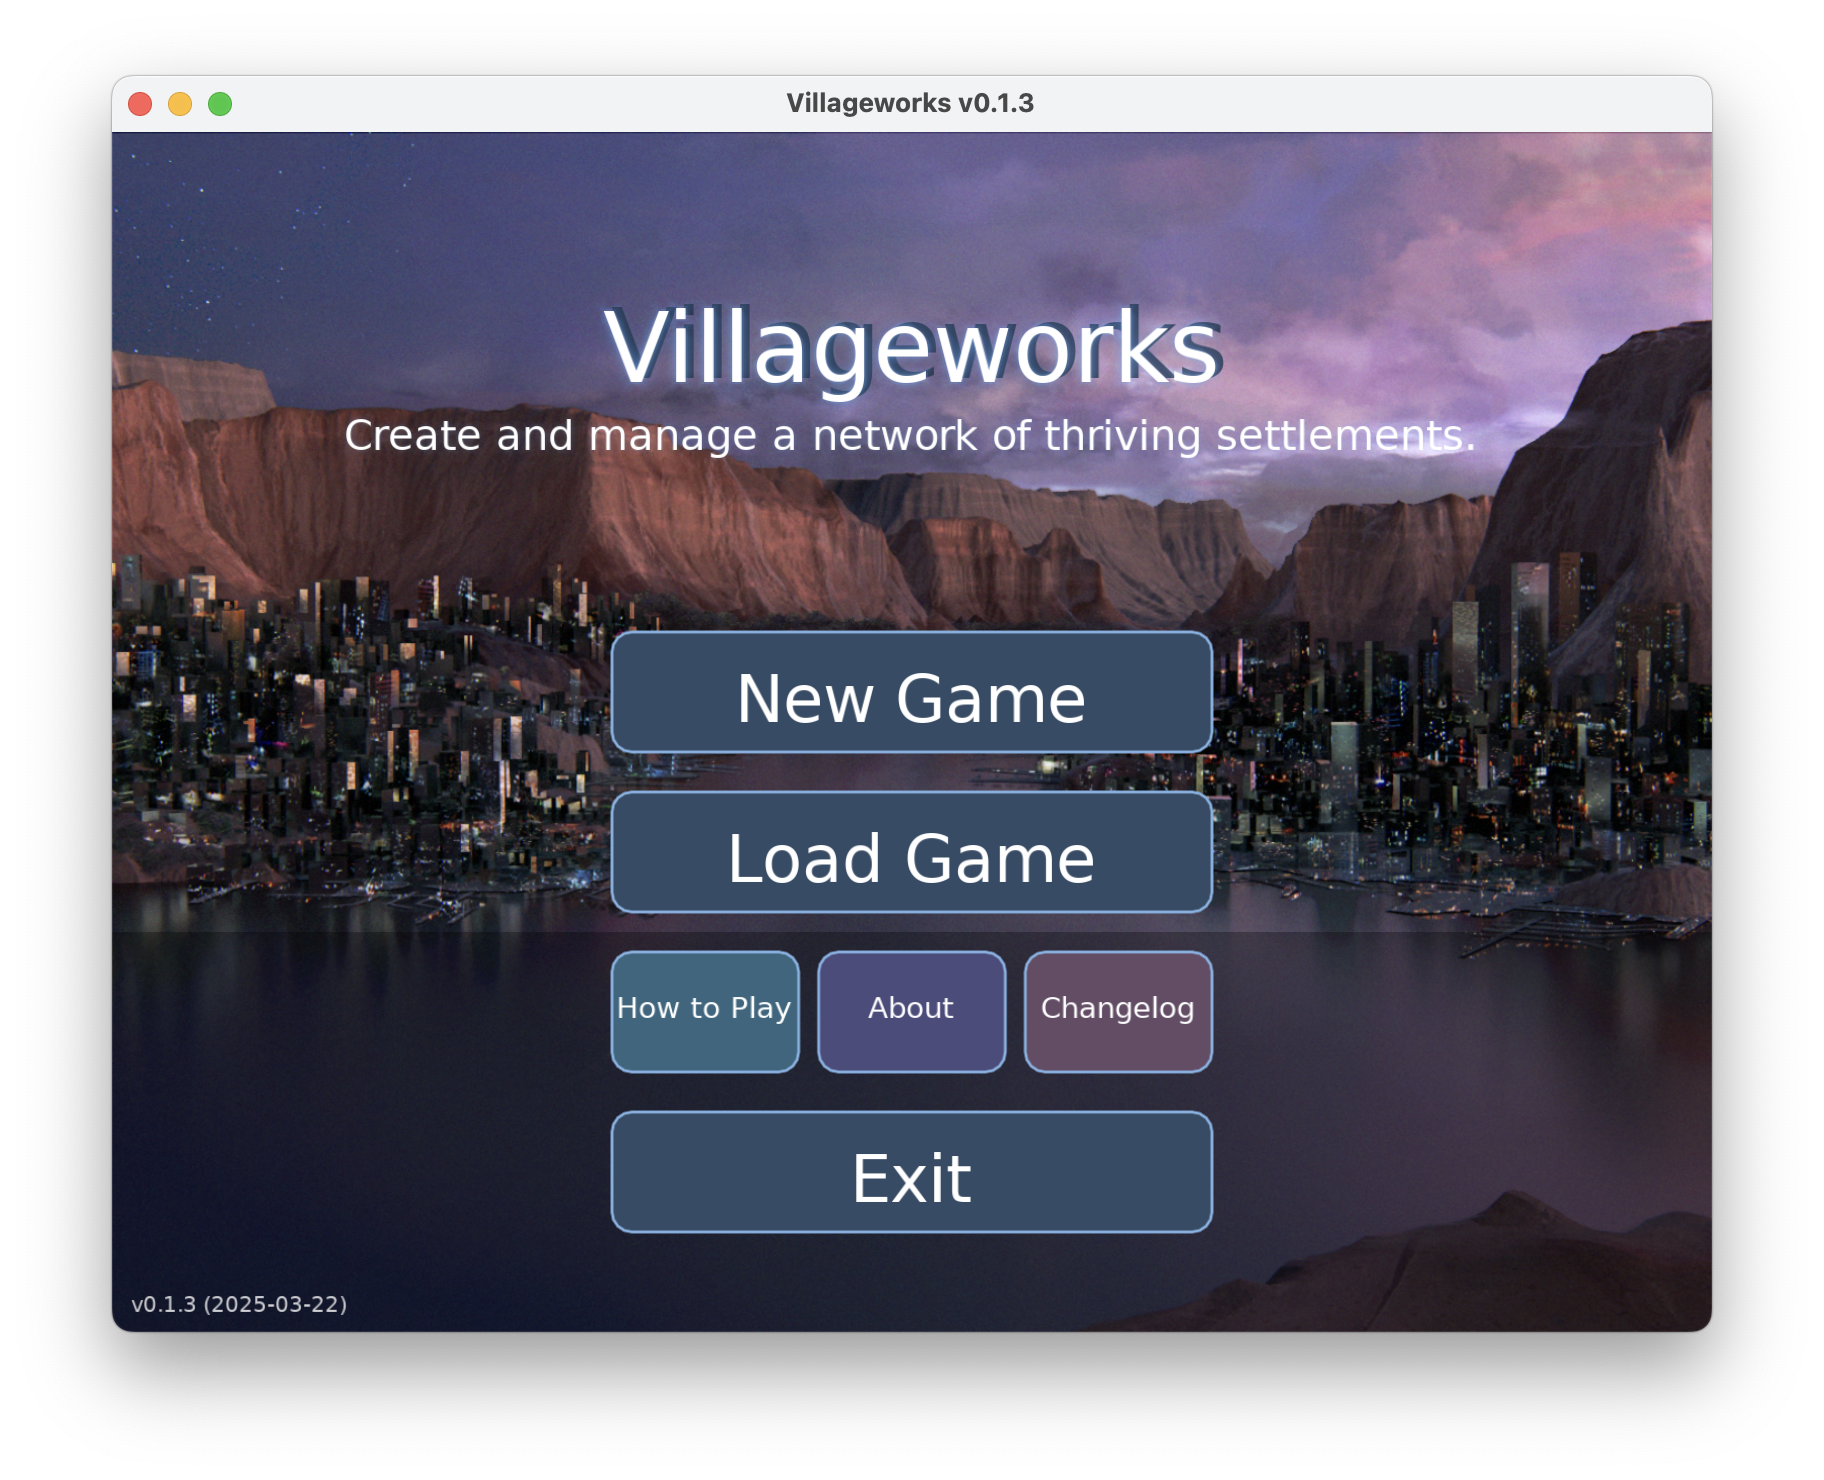
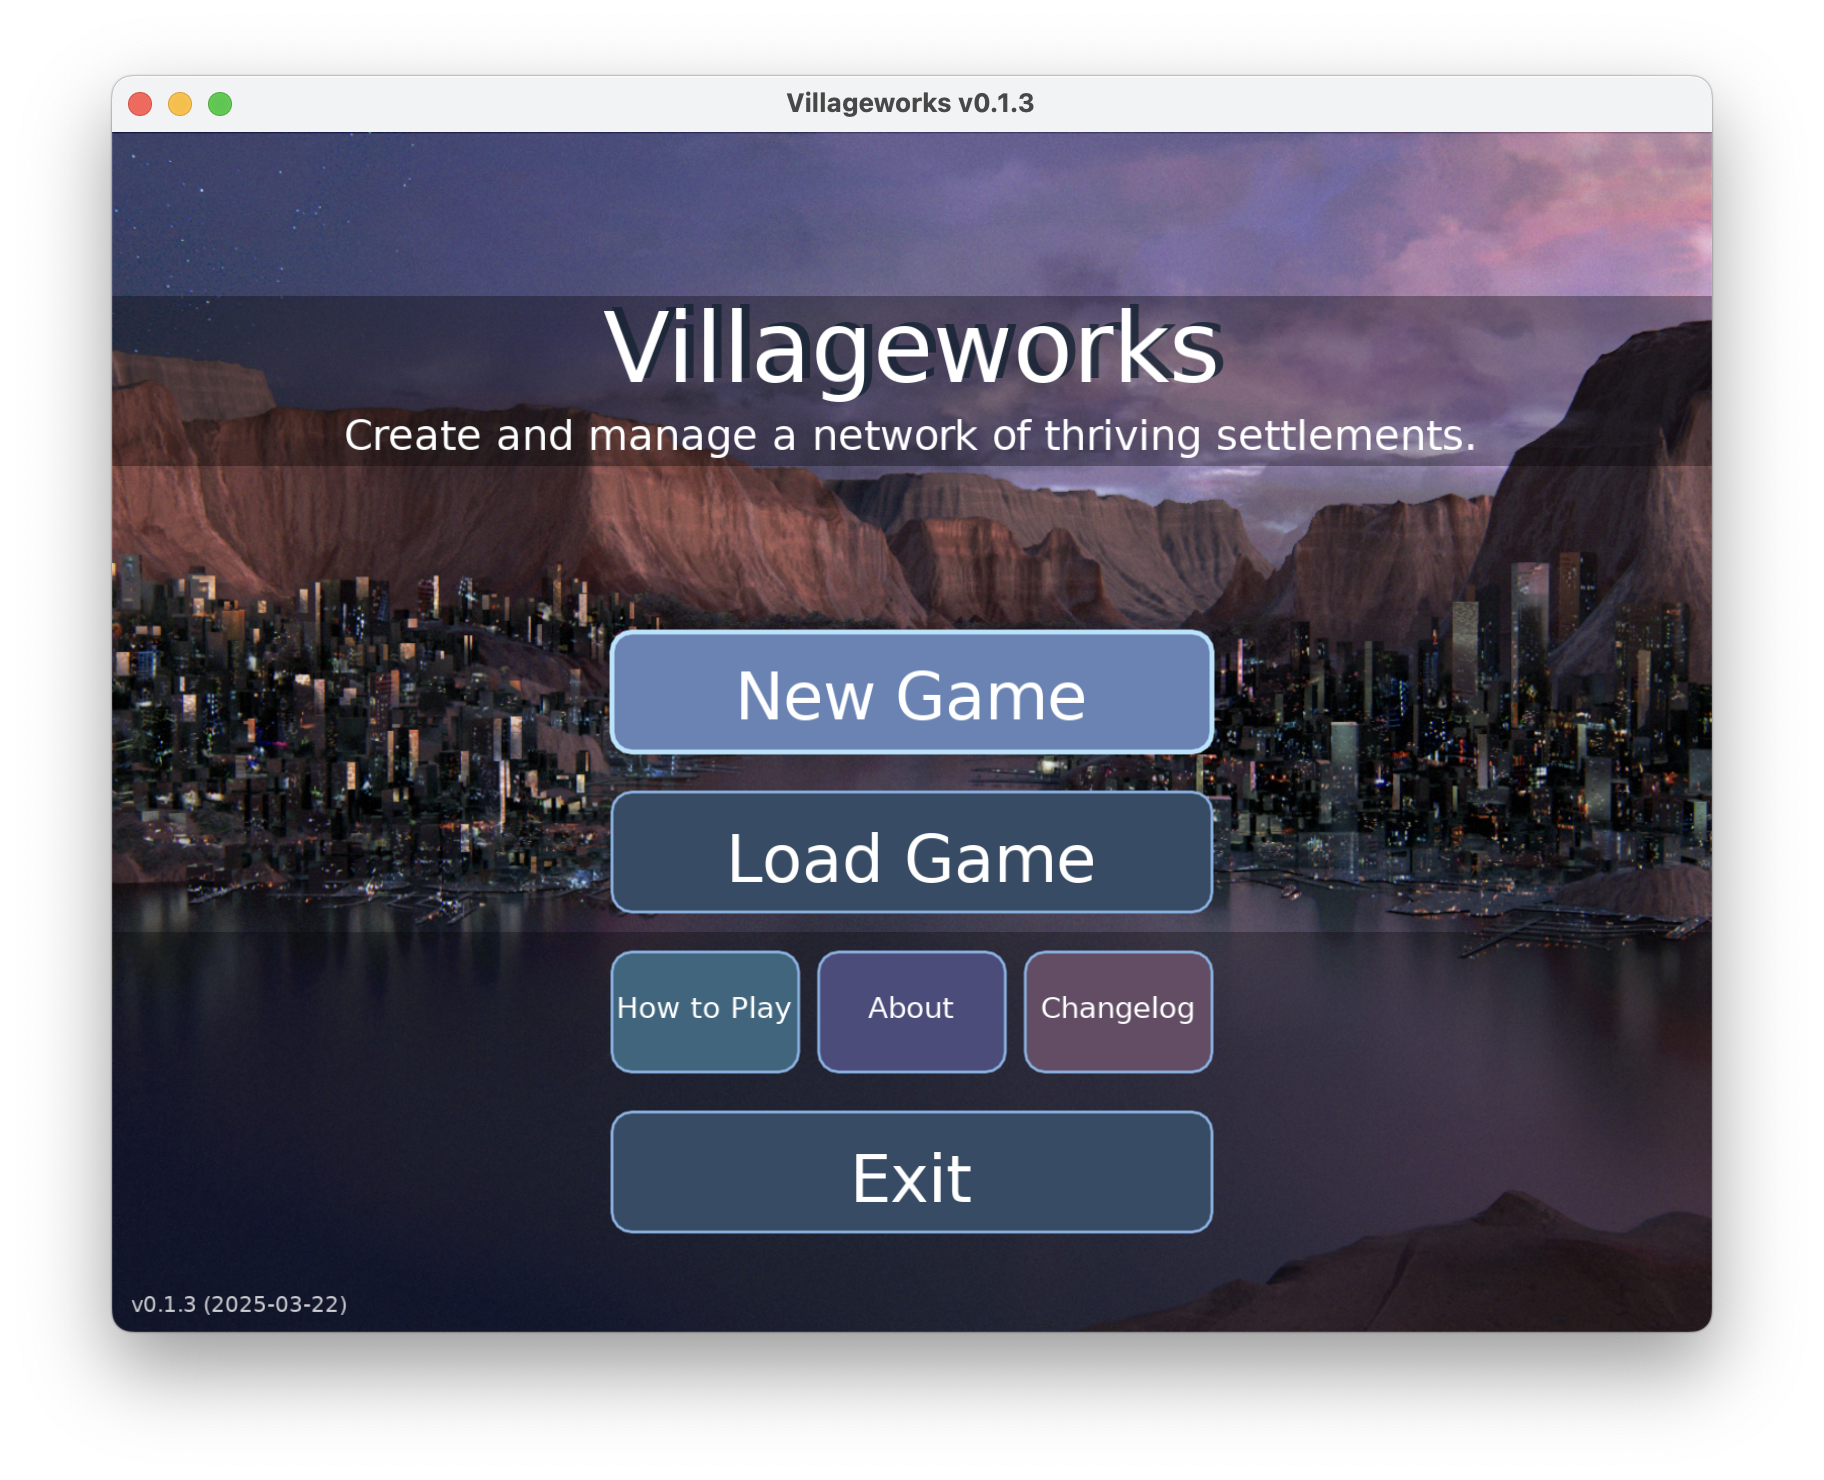
info

Changed region(s): [[0.0625, 0.1865, 0.9375, 0.3419], [0.3125, 0.4041, 0.6875, 0.5284], [0.9062, 0.2797, 0.9375, 0.3419]]

diff --git a/docs/CHANGELOG.md b/docs/CHANGELOG.md
@@ -14,6 +14,8 @@ The format is based on [Keep a Changelog](https://keepachangelog.com/en/1.0.0/),
 
 ### Changed
 
+- Update screenshots.
+- Main menu title backdrop.
 - Removed redundant start game buttons per game size
 - World generation module.
 - Map water gen with flowing rivers.
@@ -23,6 +25,7 @@ The format is based on [Keep a Changelog](https://keepachangelog.com/en/1.0.0/),
 - Removed builders.
 - Only show building text for non-village buildings on hover or 'i' key press.
 - Made it so that workers and villages work between road connected villages.
+- Update mountain tile.
 
 ### Fixed
 
